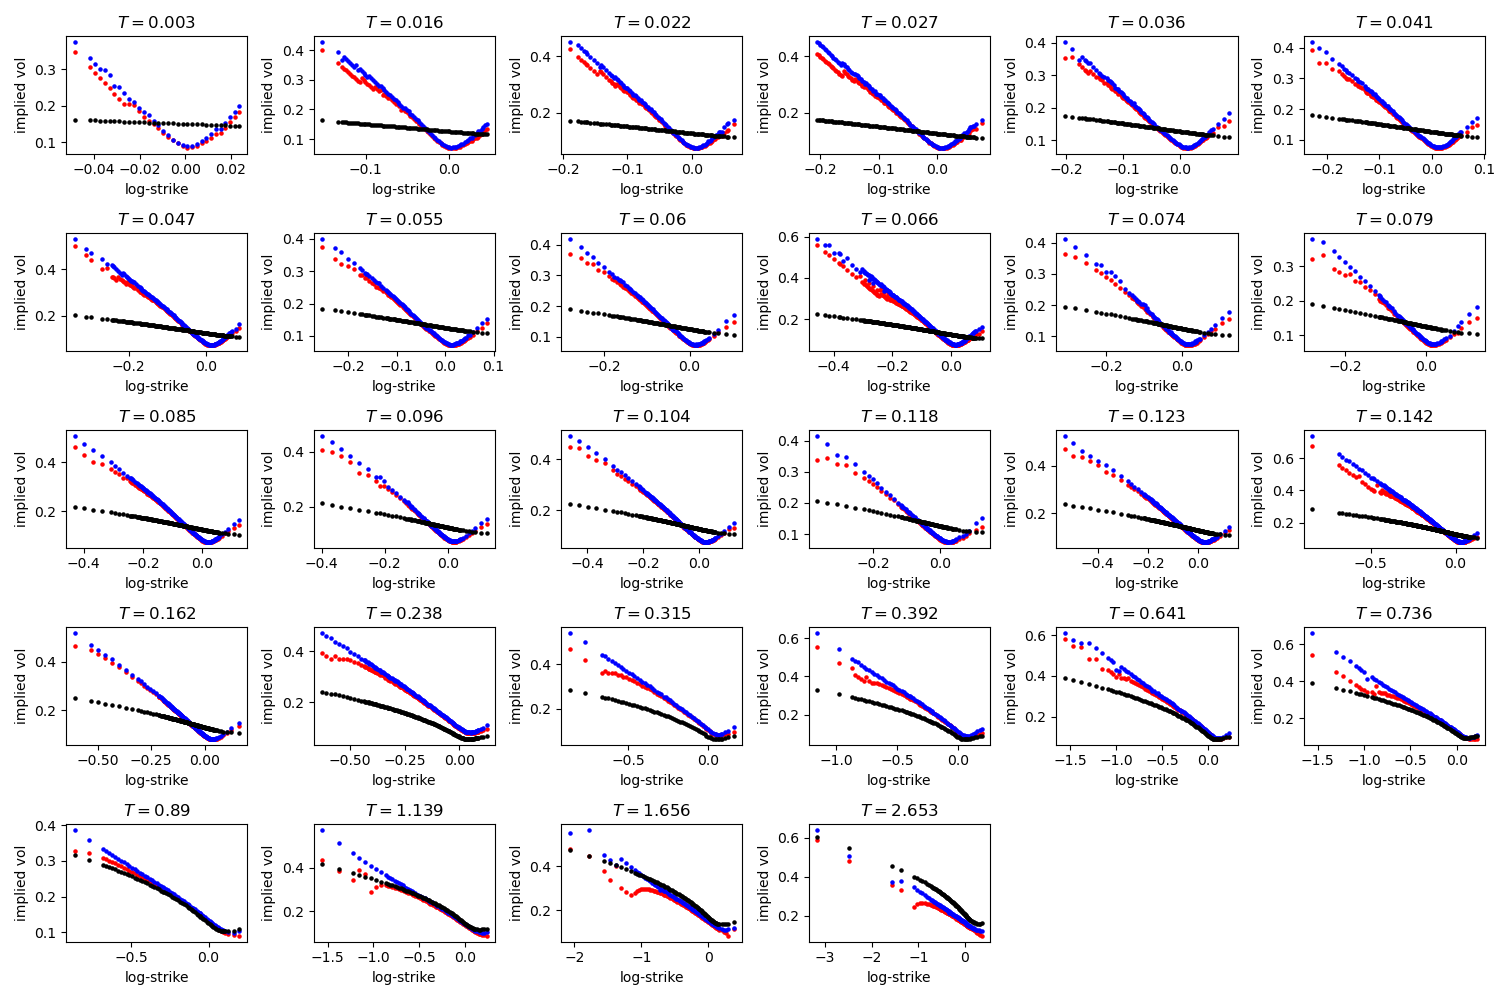
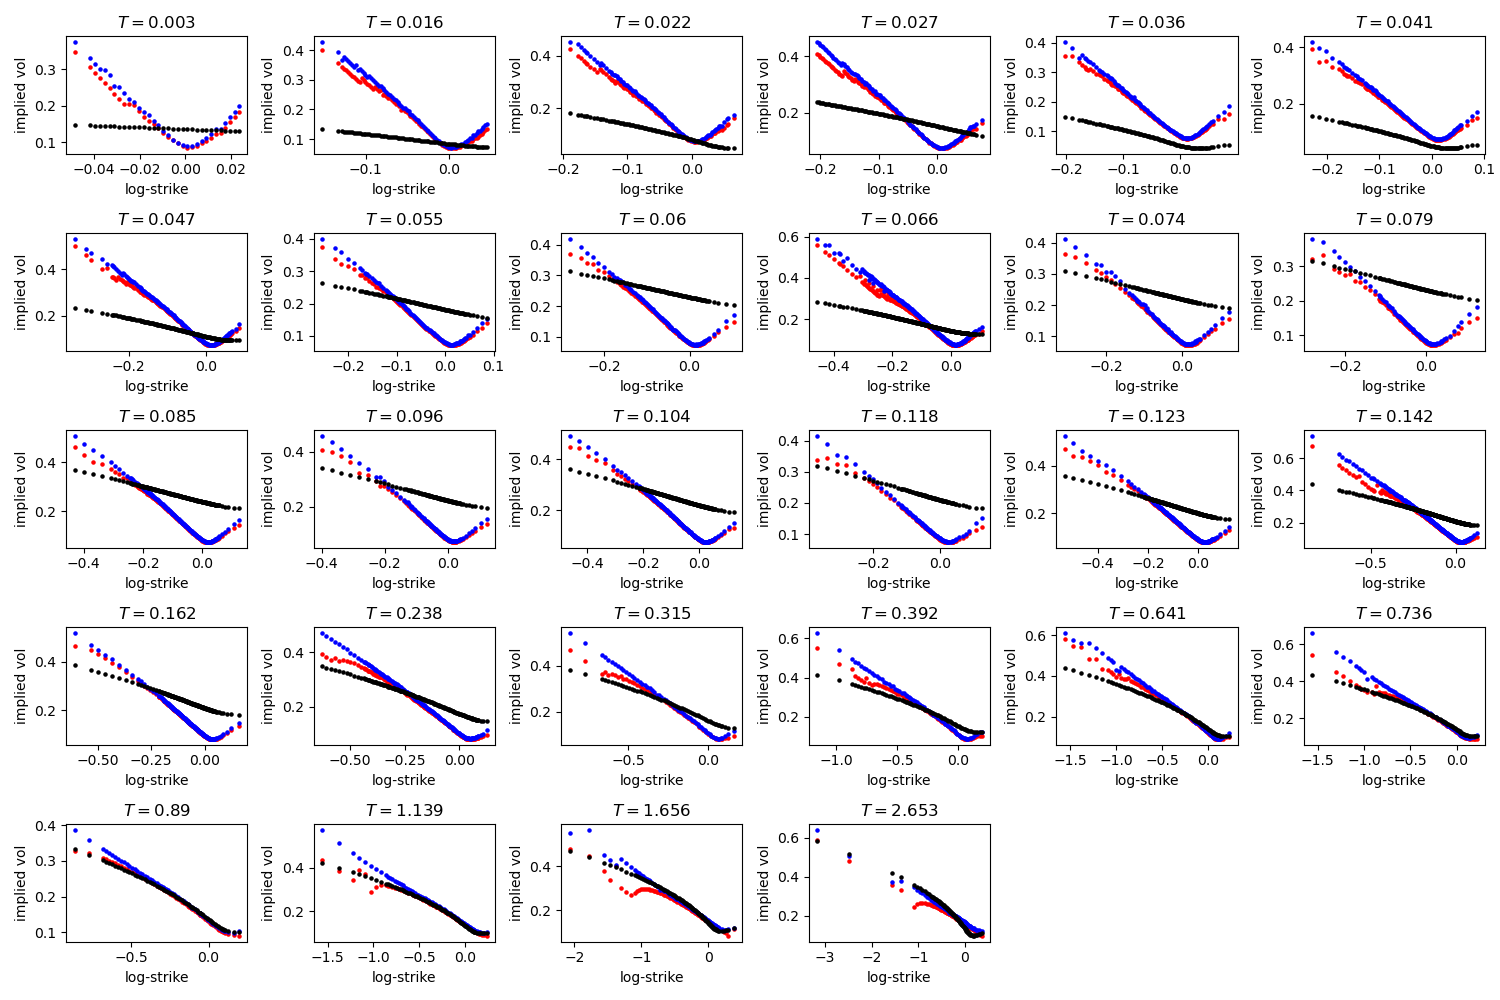
spread-weighted Heston calibration; demos for Heston cal

diff --git a/python-volcal/pricer.py b/python-volcal/pricer.py
@@ -67,13 +67,6 @@ def BlackScholesImpliedVolOTM(currentPrice, strike, maturity, riskFreeRate, pric
         BlackScholesImpliedVolPut(currentPrice, strike, maturity, riskFreeRate, price)
     return impVol
 
-def LewisFormulaOTM(charFunc, logStrike, maturity):
-    # Lewis formula for OTM option
-    integrand = lambda u: np.real(np.exp(-1j*u*logStrike) * charFunc(u-1j/2, maturity) / (u**2+.25))
-    logStrikeMinus = (logStrike<0)*logStrike
-    price = np.exp(logStrikeMinus) - np.exp(logStrike/2)/np.pi * quad(integrand, 0, np.inf)[0]
-    return price
-
 def LewisFormulaCall(charFunc, logStrike, maturity):
     # Lewis formula for call option
     integrand = lambda u: np.real(np.exp(-1j*u*logStrike) * charFunc(u-1j/2, maturity) / (u**2+.25))
@@ -86,21 +79,11 @@ def LewisFormulaPut(charFunc, logStrike, maturity):
     price = np.exp(logStrike) - np.exp(logStrike/2)/np.pi * quad(integrand, 0, np.inf)[0]
     return price
 
-def LewisFFTFormulaOTM(charFunc, logStrike, maturity, interp="cubic", N=2**12, B=200):
-    # Lewis FFT formula for OTM option
-    du = B/N
-    u = np.arange(N)*du
-    w = np.arange(N)
-    w = 3+(-1)**(w+1)
-    w[0] = 1; w[N-1] = 1
-    dk = 2*np.pi/B
-    b = N*dk/2
-    k = -b+np.arange(N)*dk
-    I = w * np.exp(1j*b*u) * charFunc(u-1j/2, maturity) / (u**2+0.25) * du/3
-    Ifft = np.real(fft(I))
-    spline = interp1d(k, Ifft, kind=interp)
+def LewisFormulaOTM(charFunc, logStrike, maturity):
+    # Lewis formula for OTM option
+    integrand = lambda u: np.real(np.exp(-1j*u*logStrike) * charFunc(u-1j/2, maturity) / (u**2+.25))
     logStrikeMinus = (logStrike<0)*logStrike
-    price = np.exp(logStrikeMinus) - np.exp(logStrike/2)/np.pi * spline(logStrike)
+    price = np.exp(logStrikeMinus) - np.exp(logStrike/2)/np.pi * quad(integrand, 0, np.inf)[0]
     return price
 
 def LewisFFTFormulaCall(charFunc, logStrike, maturity, interp="cubic", N=2**12, B=200):
@@ -135,12 +118,22 @@ def LewisFFTFormulaPut(charFunc, logStrike, maturity, interp="cubic", N=2**12, B
     price = np.exp(logStrike) - np.exp(logStrike/2)/np.pi * spline(logStrike)
     return price
 
-def CharFuncImpliedVol(charFunc, riskFreeRate=0, FFT=False):
-    # Implied volatility for OTM option priced with charFunc
-    LewisFormula = LewisFFTFormulaOTM if FFT else LewisFormulaOTM
-    def impVolFunc(logStrike, maturity): # works for scalar logStrike only
-        return BlackScholesImpliedVolOTM(1, np.exp(logStrike), maturity, riskFreeRate, LewisFormula(charFunc, logStrike, maturity))
-    return impVolFunc
+def LewisFFTFormulaOTM(charFunc, logStrike, maturity, interp="cubic", N=2**12, B=200):
+    # Lewis FFT formula for OTM option
+    du = B/N
+    u = np.arange(N)*du
+    w = np.arange(N)
+    w = 3+(-1)**(w+1)
+    w[0] = 1; w[N-1] = 1
+    dk = 2*np.pi/B
+    b = N*dk/2
+    k = -b+np.arange(N)*dk
+    I = w * np.exp(1j*b*u) * charFunc(u-1j/2, maturity) / (u**2+0.25) * du/3
+    Ifft = np.real(fft(I))
+    spline = interp1d(k, Ifft, kind=interp)
+    logStrikeMinus = (logStrike<0)*logStrike
+    price = np.exp(logStrikeMinus) - np.exp(logStrike/2)/np.pi * spline(logStrike)
+    return price
 
 def CharFuncImpliedVolCall(charFunc, riskFreeRate=0, FFT=False):
     # Implied volatility for call option priced with charFunc
@@ -152,6 +145,13 @@ def CharFuncImpliedVolCall(charFunc, riskFreeRate=0, FFT=False):
 def CharFuncImpliedVolPut(charFunc, riskFreeRate=0, FFT=False):
     # Implied volatility for put option priced with charFunc
     LewisFormula = LewisFFTFormulaPut if FFT else LewisFormulaPut
+    def impVolFunc(logStrike, maturity): # works for scalar logStrike only
+        return BlackScholesImpliedVolOTM(1, np.exp(logStrike), maturity, riskFreeRate, LewisFormula(charFunc, logStrike, maturity))
+    return impVolFunc
+
+def CharFuncImpliedVol(charFunc, riskFreeRate=0, FFT=False):
+    # Implied volatility for OTM option priced with charFunc
+    LewisFormula = LewisFFTFormulaOTM if FFT else LewisFormulaOTM
     def impVolFunc(logStrike, maturity): # works for scalar logStrike only
         return BlackScholesImpliedVolOTM(1, np.exp(logStrike), maturity, riskFreeRate, LewisFormula(charFunc, logStrike, maturity))
     return impVolFunc
@@ -199,6 +199,21 @@ def VarianceGammaCharFunc():
         pass
     return charFunc
 
+def calibrateModelToCallPrice(logStrike, maturity, callPrice, model, params0, paramsLabel, bounds=None, w=None):
+    # Calibrate model params to call option prices (pricing measure)
+    if w is None: w = 1
+    riskFreeRate = params0["riskFreeRate"] if "riskFreeRate" in params0 else 0
+    def objective(params):
+        params = {paramsLabel[i]: params[i] for i in range(len(params))}
+        charFunc = model(**params)
+        price = lambda logStrikes: np.array([LewisFFTFormulaCall(charFunc, k, maturity) for k in logStrikes])
+        loss = np.sum(w*(price(logStrike)-callPrice)**2)
+        print(f"loss: {loss}")
+        return loss
+    opt = minimize(objective, x0=params0, bounds=bounds, method="SLSQP")
+    print("Optimization output:", opt, sep="\n")
+    return opt.x
+
 def plotImpliedVol(df, figname=None, ncol=6):
     # Plot bid-ask implied volatilities based on df
     if not figname:
@@ -228,20 +243,6 @@ def plotImpliedVol(df, figname=None, ncol=6):
     fig.tight_layout()
     plt.savefig(figname)
     plt.close()
-
-def calibrateModelToCallPrice(logStrike, maturity, callPrice, model, params0, paramsLabel, bounds=None, w=None):
-    if not w: w = 1
-    riskFreeRate = params0["riskFreeRate"] if "riskFreeRate" in params0 else 0
-    def objective(params):
-        params = {paramsLabel[i]: params[i] for i in range(len(params))}
-        charFunc = model(**params)
-        price = lambda logStrikes: np.array([LewisFFTFormulaCall(charFunc, k, maturity) for k in logStrikes])
-        loss = np.sum(w*(price(logStrike)-callPrice)**2)
-        print(f"loss: {loss}")
-        return loss
-    opt = minimize(objective, x0=params0, bounds=bounds, method="SLSQP")
-    print("Optimization output:", opt, sep="\n")
-    return opt.x
 
 def VarianceSwapFormula(logStrike, maturity, impliedVol, showPlot=False):
     # Fukasawa robust variance swap formula

diff --git a/python-volcal/unit_test.py b/python-volcal/unit_test.py
@@ -7,7 +7,7 @@ plt.switch_backend("Agg")
 paramsBCC = {"meanRevRate": 1.15, "correlation": -0.64, "volOfVol": 0.39, "meanVol": 0.04, "currentVol": 0.04}
 paramsBCCkey = list(paramsBCC.keys())
 paramsBCCval = list(paramsBCC.values())
-paramsBnd = ((0,10), (-1,1), (0,1), (0,1), (0,1))
+paramsBnd = ((0,10), (-1,1), (0,10), (0.01,1), (0,1))
 
 def test_BlackScholesImpVol():
     vol = np.array([0.23,0.20,0.18])
@@ -160,14 +160,13 @@ def test_calibrateModelToCallPrice():
     df = pd.read_csv("spxVols20170424.csv")
     df = df.drop(df.columns[0], axis=1)
     Texp = df["Texp"].unique()
-    params0 = paramsBCCval
     xT = list()
     for T in Texp:
         dfT = df[df["Texp"]==T]
         k = np.log(dfT["Strike"]/dfT["Fwd"]).to_numpy()
         mid = (dfT["CallMid"]/dfT["Fwd"]).to_numpy()
-        x = calibrateModelToCallPrice(k,T,mid,HestonCharFunc,params0,paramsBCCkey,bounds=paramsBnd)
-        params0 = x.tolist()
+        w = 1/(dfT["Ask"]-dfT["Bid"]).to_numpy()
+        x = calibrateModelToCallPrice(k,T,mid,HestonCharFunc,paramsBCCval,paramsBCCkey,bounds=paramsBnd,w=w)
         xT.append([T]+x.tolist())
         print(f"T={np.round(T,3)}", x)
     xT = pd.DataFrame(xT, columns=["Texp"]+paramsBCCkey)
